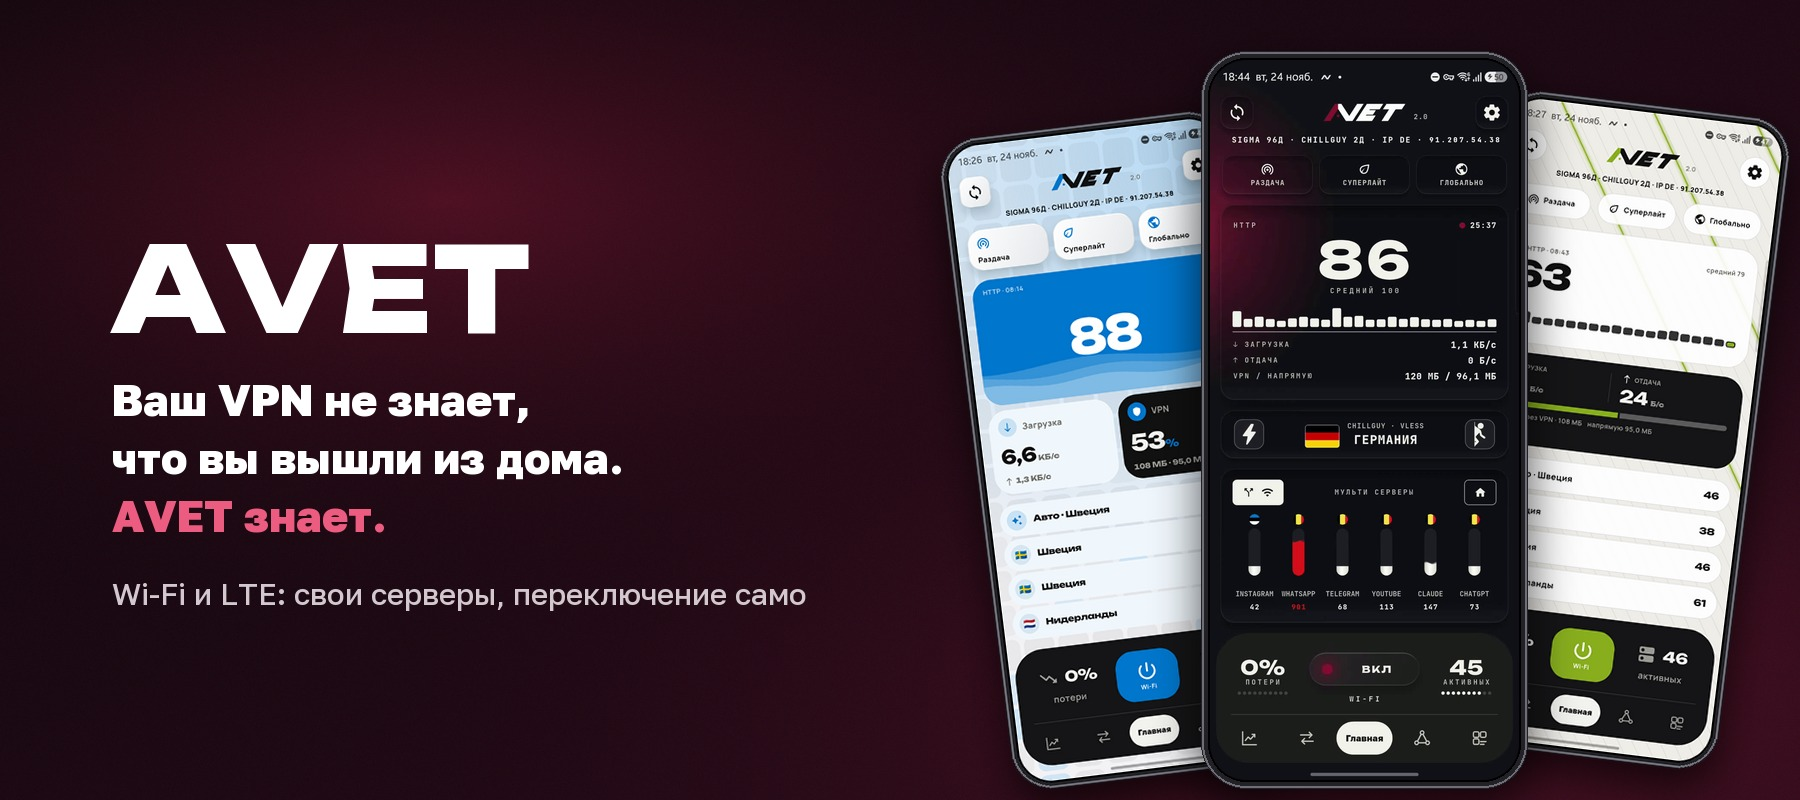
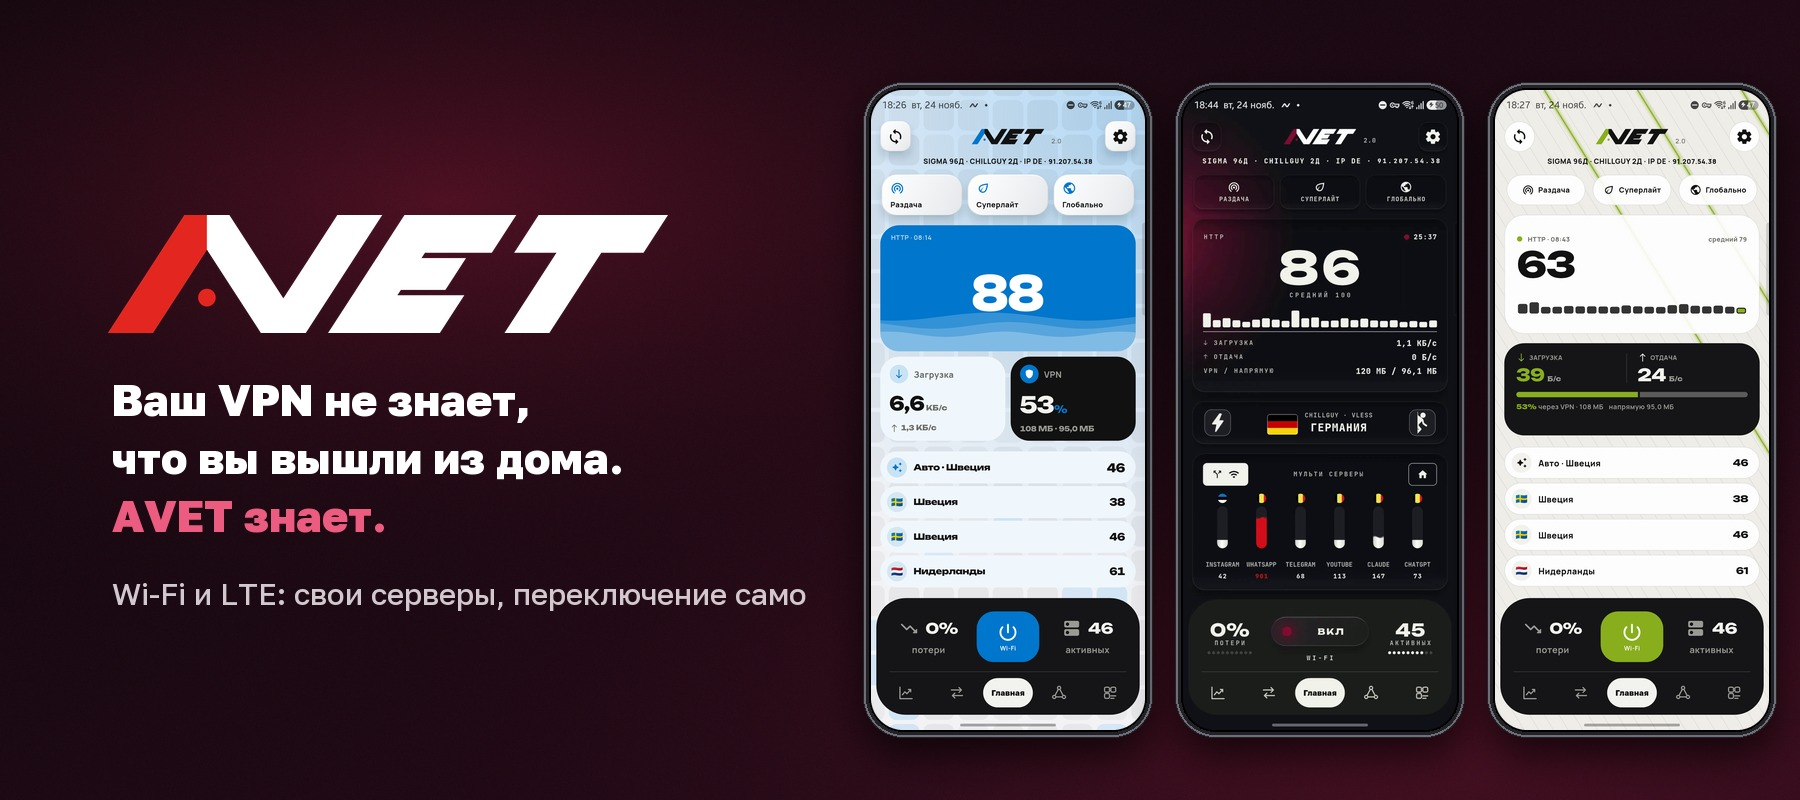
README: real wordmark in the hero, straight three-phone images, compact settings section

Changed region(s): [[0.4667, 0.0625, 0.9956, 1.0], [0.0622, 0.25, 0.3733, 0.4375]]

diff --git a/README.md b/README.md
@@ -84,83 +84,36 @@
 
 ## Настройки
 
-Настройки собраны в разделы, у каждого короткое пояснение под названием.
+Настройки собраны в короткие разделы, у каждого понятное пояснение под названием. Здесь они показаны в разных темах и стилях.
 
-### Подписки и серверы
-
-Несколько подписок сразу: перетаскивайте карточки, чтобы задать порядок, у каждой свой срок и автообновление. Для каждой сети (Wi-Fi и LTE) отдельно отмечаются страны, с пингом до каждой. Можно оставить только Европу, исключить Россию и Беларусь, выстроить цепочку серверов или подключить свой WireGuard.
+**Подписки и серверы.** Несколько подписок: перетаскивайте карточки, чтобы задать порядок, у каждой свой срок. Для Wi-Fi и LTE страны отмечаются отдельно, с пингом до каждой. Можно оставить только Европу, исключить Россию и Беларусь, выстроить цепочку серверов или подключить свой WireGuard.
 
 <p align="center">
-  <img src="docs/showcase/settings_1_subscriptions_a.jpg" width="80%" alt="Тёмная и светлая темы">
-</p>
-<p align="center">
-  <img src="docs/showcase/settings_2_sub_manage_a.jpg" width="80%" alt="Тёмная и светлая темы">
+  <img src="docs/showcase/settings_subscriptions.jpg" width="90%" alt="Подписки, управление подписками, серверы">
 </p>
 
-### Автовыбор
-
-Четыре режима: оптимальный, быстрый, стабильный и умный. Умный учится на ваших привычках: чаще используемые страны получают плюс в очках, но скорость остаётся главным. Спящие серверы: проверяются только лучшие, остальные спят и не тратят батарею. Для Wi-Fi и мобильной сети настройки раздельные.
+**Автовыбор, маршрутизация, пинг.** Четыре режима автовыбора, самообучение и спящие серверы. Маршрутизация по спискам, приложениям и сайтам: российское напрямую, заблокированное через VPN. Пинг по HTTP или HTTPS с отдельными таймаутами для Wi-Fi и LTE.
 
 <p align="center">
-  <img src="docs/showcase/settings_4_autoselect_a.jpg" width="80%" alt="Тёмная и светлая темы">
+  <img src="docs/showcase/settings_auto_routing.jpg" width="90%" alt="Автовыбор, маршрутизация, пинг">
 </p>
 
-### Маршрутизация
-
-Что идёт через VPN, а что напрямую: по спискам (российские сервисы напрямую, заблокированное через VPN), по приложениям и по сайтам. Свой сервер для приложения, один сервер для ИИ-сервисов, направление для отдельных сайтов.
+**DNS, экономия, общие.** Автовыбор DNS по скорости. Суперлайт, ночной режим и лимит памяти ядра. Блокировка рекламы и фишинга, раздача, резервная копия настроек.
 
 <p align="center">
-  <img src="docs/showcase/settings_5_routing_a.jpg" width="80%" alt="Тёмная и светлая темы">
+  <img src="docs/showcase/settings_general.jpg" width="90%" alt="DNS, экономия, общие">
 </p>
 
-### Запуск, DNS и пинг
-
-Автозапуск, паузы дома, MTU. Автовыбор DNS проверяет серверы и берёт самый быстрый. Для пинга можно выбрать HTTP или HTTPS, адрес проверки и таймауты отдельно для Wi-Fi и LTE.
+**Темы.** Три стиля, четыре объёма, шесть фонов, много акцентных цветов, четыре шрифта цифр и масштаб текста.
 
 <p align="center">
-  <img src="docs/showcase/settings_7_dns_a.jpg" width="80%" alt="Тёмная и светлая темы">
-</p>
-<p align="center">
-  <img src="docs/showcase/settings_8_ping_a.jpg" width="80%" alt="Тёмная и светлая темы">
+  <img src="docs/showcase/settings_themes.jpg" width="90%" alt="Темы и оформление">
 </p>
 
-### Общие: экономия, раздача, резервная копия
-
-Суперлайт, ночной режим и лимит памяти ядра, блокировка рекламы и фишинга, раздача для других устройств, экспорт и импорт настроек.
+Три стиля на одних и тех же данных: Glass (прозрачные блоки на мягком фоне), Mosaic (сплошные плитки и яркий пинг), Studio (светлый верх, чёрный низ).
 
 <p align="center">
-  <img src="docs/showcase/settings_9_general.jpg" width="80%" alt="Тёмная и светлая темы">
-</p>
-<p align="center">
-  <img src="docs/showcase/settings_9_general_3_saving.jpg" width="80%" alt="Тёмная и светлая темы">
-</p>
-
-### Темы
-
-Три стиля, четыре объёма, шесть фонов, много акцентных цветов, четыре шрифта цифр и масштаб текста.
-
-<p align="center">
-  <img src="docs/showcase/glass_6_themes.jpg" width="80%" alt="Тёмная и светлая темы">
-</p>
-
-Три стиля на одних и тех же данных.
-
-**Glass:** прозрачные блоки на мягком цветном фоне, один акцент.
-
-<p align="center">
-  <img src="docs/showcase/glass_1_home.jpg" width="80%" alt="Тёмная и светлая темы">
-</p>
-
-**Mosaic:** сплошные плитки, яркий пинг, крупные цифры.
-
-<p align="center">
-  <img src="docs/showcase/mosaic_1_home.jpg" width="80%" alt="Тёмная и светлая темы">
-</p>
-
-**Studio:** светлый верх, чёрный низ, белые плитки.
-
-<p align="center">
-  <img src="docs/showcase/studio_1_home.jpg" width="80%" alt="Тёмная и светлая темы">
+  <img src="docs/showcase/styles.jpg" width="90%" alt="Glass, Mosaic и Studio">
 </p>
 
 ## Установка
